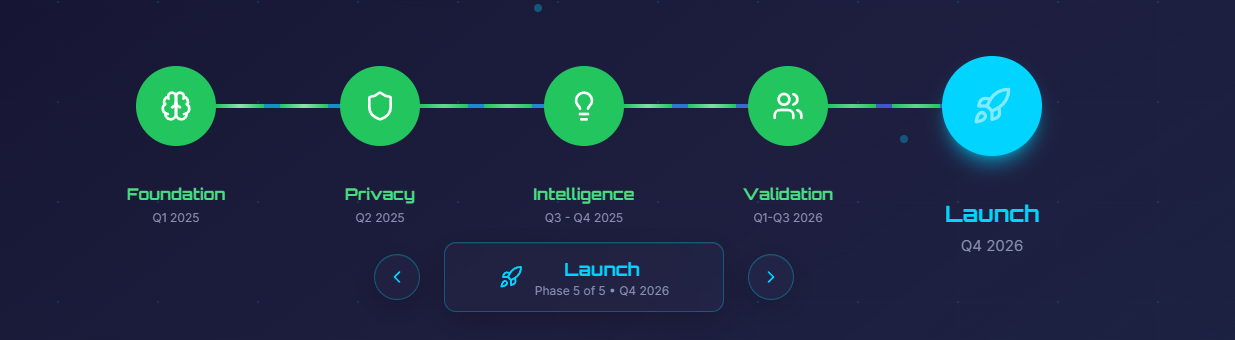
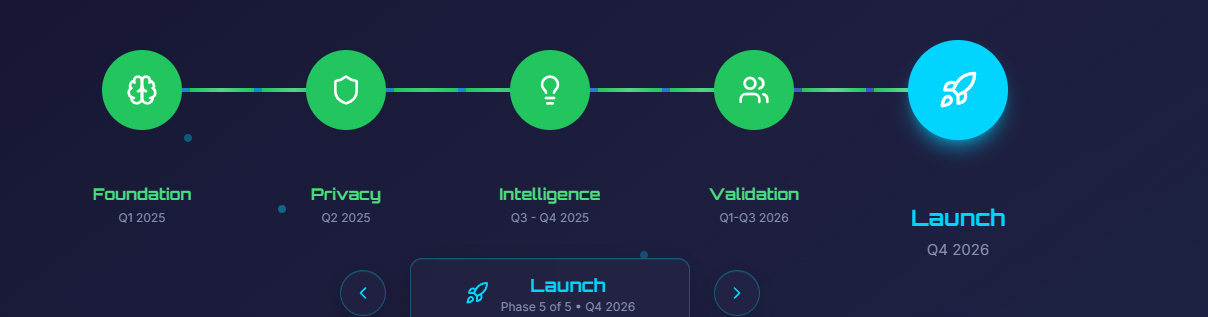
final_3

diff --git a/src/components/EpicRoadmap.tsx b/src/components/EpicRoadmap.tsx
@@ -340,21 +340,7 @@ const EpicRoadmap = () => {
         {/* Gradient Background */}
         <div className="absolute inset-0 bg-gradient-to-br from-deep-space via-shadow-black to-neural-blue/10"></div>
         
-        {/* Animated Grid */}
-        <div className="absolute inset-0 opacity-20">
-          <svg width="100%" height="100%" className="absolute inset-0">
-            <defs>
-              <pattern id="roadmap-grid" x="0" y="0" width="100" height="100" patternUnits="userSpaceOnUse">
-                <circle cx="50" cy="50" r="1" fill="#00D4FF" opacity="0.3">
-                  <animate attributeName="opacity" values="0.3;1;0.3" dur="3s" repeatCount="indefinite" />
-                </circle>
-                <line x1="50" y1="0" x2="50" y2="100" stroke="#00D4FF" strokeWidth="0.5" opacity="0.1" />
-                <line x1="0" y1="50" x2="100" y2="50" stroke="#00D4FF" strokeWidth="0.5" opacity="0.1" />
-              </pattern>
-            </defs>
-            <rect width="100%" height="100%" fill="url(#roadmap-grid)" />
-          </svg>
-        </div>
+        {/* Removed animated grid background */}
         
         {/* Floating Neural Particles */}
         <div className="absolute inset-0">
@@ -436,21 +422,6 @@ const EpicRoadmap = () => {
               <span className="text-mind-purple font-bold font-orbitron">2025 - 2026 Roadmap</span>
             </div>
 
-            {/* Status Legend */}
-            <div className="flex flex-wrap justify-center gap-4 mb-8">
-              <div className="flex items-center space-x-2 glass-card px-4 py-2 rounded-lg border border-green-500/30 bg-green-500/10">
-                <span className="text-green-500 text-lg">✓</span>
-                <span className="text-green-400 font-semibold text-sm">Completed</span>
-              </div>
-              <div className="flex items-center space-x-2 glass-card px-4 py-2 rounded-lg border border-neural-blue/30 bg-neural-blue/10">
-                <span className="text-neural-blue text-lg animate-pulse">⏳</span>
-                <span className="text-neural-blue font-semibold text-sm">In Progress</span>
-              </div>
-              <div className="flex items-center space-x-2 glass-card px-4 py-2 rounded-lg border border-orange-500/30 bg-orange-500/10">
-                <span className="text-orange-500 text-lg">📋</span>
-                <span className="text-orange-400 font-semibold text-sm">Planned</span>
-              </div>
-            </div>
           </div>
         </div>
 
@@ -459,12 +430,7 @@ const EpicRoadmap = () => {
           {/* Desktop Horizontal Timeline */}
           <div className="hidden md:block">
             {/* Timeline Path */}
-            <div className="relative flex justify-center items-center mb-20 px-4">
-              <div className="absolute inset-0 flex items-center justify-center z-0">
-                <div className="w-full max-w-4xl h-1 bg-gradient-to-r from-neural-blue/20 via-neural-blue/50 to-neural-blue/20 rounded-full relative">
-                  <div className="absolute inset-0 bg-gradient-to-r from-neural-blue to-mind-purple rounded-full animate-pulse opacity-60"></div>
-                </div>
-              </div>
+            <div className="relative flex justify-center items-center mb-32 px-4">
               
               {/* Phase Nodes */}
               <div className="relative flex justify-between items-center w-full max-w-4xl z-10">
@@ -513,7 +479,7 @@ const EpicRoadmap = () => {
                       </div>
                       
                       {/* Phase Label */}
-                      <div className="absolute -bottom-20 left-1/2 transform -translate-x-1/2 text-center min-w-max z-10">
+                      <div className="absolute -bottom-24 left-1/2 transform -translate-x-1/2 text-center min-w-max z-10">
                         <div className={`font-bold font-orbitron transition-all duration-300 text-base ${
                           isActive 
                             ? 'text-neural-blue text-lg' 
@@ -528,35 +494,6 @@ const EpicRoadmap = () => {
                         </div>
                       </div>
                       
-                      {/* Connection Line to Next - Split to go around circles */}
-                      {index < phases.length - 1 && (
-                        <>
-                          {/* Left segment - from current node edge */}
-                          <div className={`absolute top-1/2 left-full w-12 h-1 transition-all duration-300 ${
-                            (isPast || (isActive && phases.findIndex(p => p.id === activePhase) > index))
-                              ? 'bg-green-500' 
-                              : isActive 
-                              ? 'bg-neural-blue' 
-                              : 'bg-neural-gray/20'
-                          } transform -translate-y-1/2 z-0`}>
-                            {(isPast || isActive) && (
-                              <div className="absolute inset-0 bg-gradient-to-r from-transparent via-white/50 to-transparent animate-pulse"></div>
-                            )}
-                          </div>
-                          {/* Right segment - to next node edge */}
-                          <div className={`absolute top-1/2 left-full w-12 h-1 ml-16 transition-all duration-300 ${
-                            (isPast || (isActive && phases.findIndex(p => p.id === activePhase) > index))
-                              ? 'bg-green-500' 
-                              : isActive && phases.findIndex(p => p.id === activePhase) === index
-                              ? 'bg-neural-blue' 
-                              : 'bg-neural-gray/20'
-                          } transform -translate-y-1/2 z-0`}>
-                            {(isPast || isActive) && (
-                              <div className="absolute inset-0 bg-gradient-to-r from-transparent via-white/50 to-transparent animate-pulse"></div>
-                            )}
-                          </div>
-                        </>
-                      )}
                     </button>
                   );
                 })}
@@ -567,10 +504,6 @@ const EpicRoadmap = () => {
           {/* Mobile Vertical Timeline */}
           <div className="md:hidden px-4">
             <div className="relative max-w-md mx-auto">
-              {/* Vertical Timeline Line - Lower z-index to go behind elements */}
-              <div className="absolute left-8 top-8 bottom-8 w-1 bg-gradient-to-b from-neural-blue/20 via-neural-blue/50 to-neural-blue/20 rounded-full z-0">
-                <div className="absolute inset-0 bg-gradient-to-b from-neural-blue to-mind-purple rounded-full animate-pulse opacity-60"></div>
-              </div>
               
               {/* Vertical Phase Nodes */}
               <div className="space-y-16">
@@ -645,7 +578,7 @@ const EpicRoadmap = () => {
         </div>
 
         {/* Phase Navigation & Milestones - Mobile Responsive */}
-        <div className="mt-24 mb-16 max-w-6xl mx-auto space-y-6 px-4">
+        <div className="mt-32 mb-16 max-w-6xl mx-auto space-y-8 px-4">
           {/* Navigation Controls */}
           <div className="flex justify-center items-center space-x-4 md:space-x-6">
             <button
@@ -703,6 +636,22 @@ const EpicRoadmap = () => {
                       <span className="text-sm text-neural-blue font-medium">{feature}</span>
                     </div>
                   ))}
+                </div>
+              </div>
+
+              {/* Status Legend */}
+              <div className="flex flex-wrap justify-center gap-4 mb-8">
+                <div className="flex items-center space-x-2 glass-card px-4 py-2 rounded-lg border border-green-500/30 bg-green-500/10">
+                  <span className="text-green-500 text-lg">✓</span>
+                  <span className="text-green-400 font-semibold text-sm">Completed</span>
+                </div>
+                <div className="flex items-center space-x-2 glass-card px-4 py-2 rounded-lg border border-neural-blue/30 bg-neural-blue/10">
+                  <span className="text-neural-blue text-lg animate-pulse">⏳</span>
+                  <span className="text-neural-blue font-semibold text-sm">In Progress</span>
+                </div>
+                <div className="flex items-center space-x-2 glass-card px-4 py-2 rounded-lg border border-orange-500/30 bg-orange-500/10">
+                  <span className="text-orange-500 text-lg">📋</span>
+                  <span className="text-orange-400 font-semibold text-sm">Planned</span>
                 </div>
               </div>
 

diff --git a/src/components/Navigation.tsx b/src/components/Navigation.tsx
@@ -96,10 +96,23 @@ const Navigation = () => {
           {/* Mobile menu button */}
           <div className="md:hidden flex-shrink-0">
             <button
-              onClick={() => setIsOpen(!isOpen)}
-              className="text-ghost-white p-3 hover:bg-neural-blue/10 rounded-xl transition-colors border border-transparent hover:border-neural-blue/30 bg-transparent relative z-[60] touch-manipulation"
+              onTouchEnd={(e) => {
+                e.preventDefault();
+                e.stopPropagation();
+                setIsOpen(!isOpen);
+              }}
+              onClick={(e) => {
+                e.preventDefault();
+                e.stopPropagation();
+                setIsOpen(!isOpen);
+              }}
+              className="text-ghost-white p-4 rounded-xl transition-colors bg-neural-blue/10 border border-neural-blue/30 relative z-[9999] min-h-[48px] min-w-[48px] flex items-center justify-center"
               aria-label="Toggle mobile menu"
               type="button"
+              style={{ 
+                WebkitTapHighlightColor: 'transparent',
+                touchAction: 'manipulation'
+              }}
             >
               {isOpen ? <X className="h-6 w-6" /> : <Menu className="h-6 w-6" />}
             </button>
@@ -109,48 +122,77 @@ const Navigation = () => {
       </div>
 
       {/* Mobile Navigation Overlay */}
-      {isOpen && (
-        <div className="md:hidden fixed inset-0 z-[9999] animate-in fade-in duration-200">
-          {/* Backdrop */}
-          <div 
-            className="absolute inset-0 bg-black/80 backdrop-blur-sm"
-            onClick={() => setIsOpen(false)}
-          />
-          
-          {/* Mobile Menu */}
-          <div className="absolute left-4 right-4 top-20 animate-in slide-in-from-top-4 duration-300">
-            <div className="bg-deep-space/95 border-2 border-neural-blue/60 rounded-2xl shadow-2xl backdrop-blur-xl">
-              <div className="px-6 py-6 space-y-4">
-                {navItems.map((item) => (
-                  <Link
-                    key={item.name}
-                    to={item.href}
-                    className={`block text-ghost-white/80 hover:text-neural-blue transition-colors duration-300 font-semibold text-lg py-3 rounded-lg hover:bg-neural-blue/10 px-4 ${
-                      location.pathname === item.href ? 'text-neural-blue bg-neural-blue/20' : ''
-                    }`}
-                    onClick={() => setIsOpen(false)}
+      <div 
+        className={`md:hidden fixed inset-0 z-[9998] transition-all duration-300 ${
+          isOpen 
+            ? 'opacity-100 visible pointer-events-auto' 
+            : 'opacity-0 invisible pointer-events-none'
+        }`}
+        style={{ 
+          backgroundColor: isOpen ? 'rgba(0, 0, 0, 0.8)' : 'transparent',
+          backdropFilter: isOpen ? 'blur(4px)' : 'none'
+        }}
+      >
+        {/* Backdrop */}
+        <div 
+          className="absolute inset-0"
+          onClick={(e) => {
+            e.preventDefault();
+            e.stopPropagation();
+            setIsOpen(false);
+          }}
+          onTouchEnd={(e) => {
+            e.preventDefault();
+            e.stopPropagation();
+            setIsOpen(false);
+          }}
+        />
+        
+        {/* Mobile Menu */}
+        <div 
+          className={`absolute left-4 right-4 top-24 transition-all duration-300 ${
+            isOpen ? 'translate-y-0 opacity-100' : '-translate-y-8 opacity-0'
+          }`}
+          onClick={(e) => e.stopPropagation()}
+        >
+          <div className="bg-deep-space border-2 border-neural-blue/60 rounded-2xl shadow-2xl backdrop-blur-xl">
+            <div className="px-6 py-6 space-y-2">
+              {navItems.map((item) => (
+                <Link
+                  key={item.name}
+                  to={item.href}
+                  className={`block text-ghost-white/80 hover:text-neural-blue transition-colors duration-300 font-semibold text-lg py-4 rounded-lg hover:bg-neural-blue/10 px-4 ${
+                    location.pathname === item.href ? 'text-neural-blue bg-neural-blue/20' : ''
+                  }`}
+                  onClick={(e) => {
+                    e.stopPropagation();
+                    setIsOpen(false);
+                  }}
+                  onTouchEnd={(e) => {
+                    e.stopPropagation();
+                  }}
+                >
+                  {item.name}
+                </Link>
+              ))}
+              <div className="pt-4 border-t border-neural-blue/20">
+                <Link to="/beta-signup" className="block">
+                  <Button 
+                    onClick={(e) => {
+                      e.stopPropagation();
+                      trackButtonClick('Get Started', 'mobile_navigation', '/beta-signup');
+                      setIsOpen(false);
+                    }}
+                    className="w-full cyber-button text-deep-space font-bold py-4 text-lg rounded-xl"
                   >
-                    {item.name}
-                  </Link>
-                ))}
-                <div className="pt-4 border-t border-neural-blue/20">
-                  <Link to="/beta-signup" className="block">
-                    <Button 
-                      onClick={() => {
-                        trackButtonClick('Get Started', 'mobile_navigation', '/beta-signup');
-                        setIsOpen(false);
-                      }}
-                      className="w-full cyber-button text-deep-space font-bold py-4 text-lg rounded-xl"
-                    >
-                      Get Started
-                    </Button>
-                  </Link>
-                </div>
+                    Get Started
+                  </Button>
+                </Link>
               </div>
             </div>
           </div>
         </div>
-      )}
+      </div>
     </nav>
   );
 };

diff --git a/src/components/TeamSelection.tsx b/src/components/TeamSelection.tsx
@@ -135,21 +135,7 @@ const TeamSelection = () => {
       <div className="absolute inset-0">
         <div className="absolute inset-0 bg-gradient-to-br from-deep-space via-shadow-black to-neural-blue/5"></div>
         
-        {/* Neural Network Background */}
-        <div className="absolute inset-0 opacity-10">
-          <svg width="100%" height="100%">
-            <defs>
-              <pattern id="team-neural" x="0" y="0" width="120" height="120" patternUnits="userSpaceOnUse">
-                <circle cx="60" cy="60" r="2" fill="#00D4FF" opacity="0.4">
-                  <animate attributeName="opacity" values="0.4;1;0.4" dur="4s" repeatCount="indefinite" />
-                </circle>
-                <line x1="60" y1="0" x2="60" y2="120" stroke="#00D4FF" strokeWidth="0.5" opacity="0.2" />
-                <line x1="0" y1="60" x2="120" y2="60" stroke="#00D4FF" strokeWidth="0.5" opacity="0.2" />
-              </pattern>
-            </defs>
-            <rect width="100%" height="100%" fill="url(#team-neural)" />
-          </svg>
-        </div>
+        {/* Removed neural network grid background */}
       </div>
 
       <div className="max-w-7xl mx-auto px-4 sm:px-6 lg:px-8 relative z-10">

diff --git a/src/styles/responsive-fixes.css b/src/styles/responsive-fixes.css
@@ -154,12 +154,6 @@
 
 /* Mobile menu fixes */
 @media (max-width: 767px) {
-  /* Ensure mobile menu is always on top */
-  nav .md\\:hidden button {
-    z-index: 9999;
-    position: relative;
-  }
-  
   /* Prevent body scroll when mobile menu is open */
   body.menu-open {
     overflow: hidden;
@@ -175,25 +169,7 @@
   
   /* Improve button tap area */
   nav button {
-    min-height: 44px;
-    min-width: 44px;
+    min-height: 48px;
+    min-width: 48px;
   }
-  
-  /* Force mobile menu visibility when open */
-  nav [class*="fixed inset-0"] {
-    display: block !important;
-  }
-  
-  /* Ensure mobile menu components are visible */
-  .mobile-menu-overlay {
-    position: fixed !important;
-    top: 0 !important;
-    left: 0 !important;
-    right: 0 !important;
-    bottom: 0 !important;
-    z-index: 9999 !important;
-    pointer-events: auto !important;
-  }
-  
-  /* Removed debug helper border */
 }
